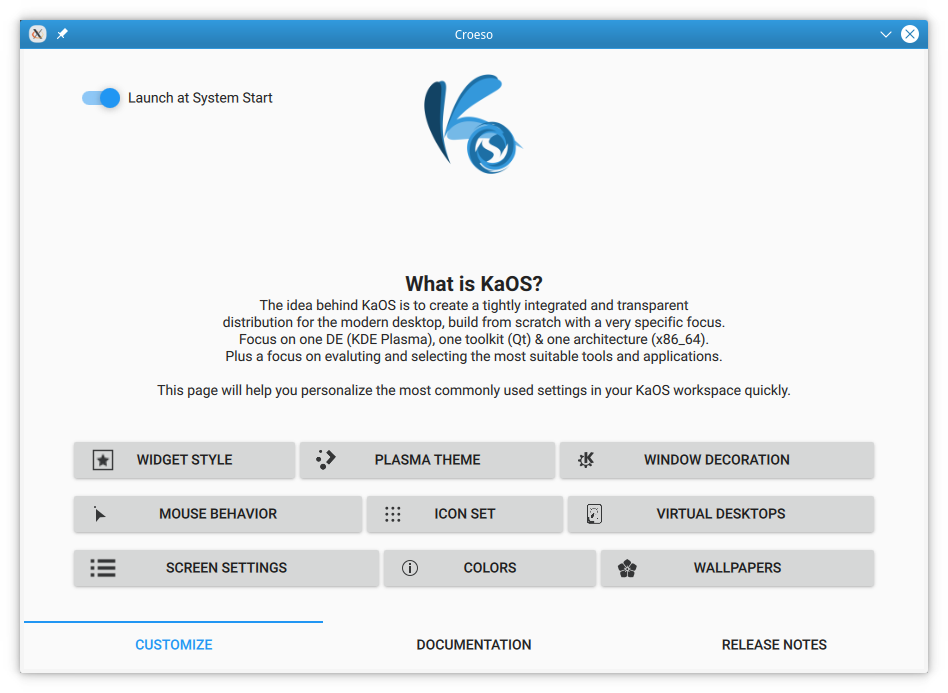
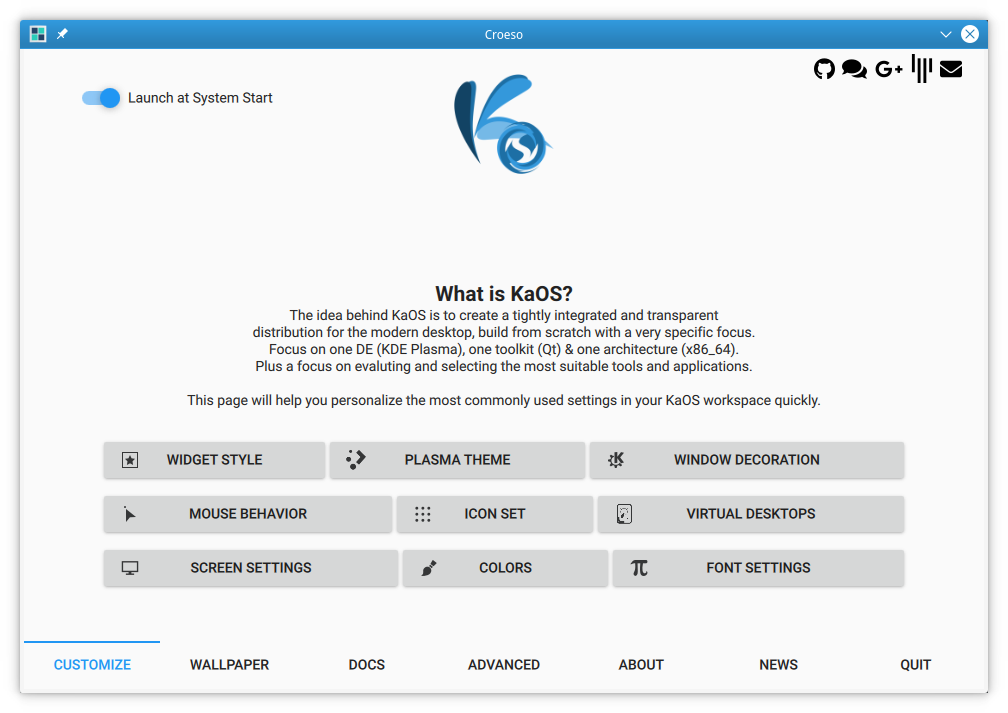
set social media to buttons add tooltips updated screenshots

diff --git a/main.qml b/main.qml
@@ -109,72 +109,123 @@ ApplicationWindow {
         anchors.topMargin: 5
         anchors.top: parent.top
     
-        Image {
+        Button {
                 id: github
+                hoverEnabled: true
+                onClicked: {  Qt.openUrlExternally("https://github.com/KaOSx"); }
+                background: Rectangle {
+                    implicitWidth: 22
+                    implicitHeight: 22
+                    color: "transparent"
+                }
+                
+                ToolTip.delay: 500
+                ToolTip.timeout: 5000
+                ToolTip.visible: hovered
+                ToolTip.text: qsTr("Code & Bug trackers on Github for KaOS")
+            
+            Image {
+                anchors.fill: parent
                 sourceSize.width: 22
                 sourceSize.height: 22
+                fillMode: Image.PreserveAspectFit
                 source: "images/fontawesome/github.svg"
-            
-            MouseArea {
-                anchors.fill: parent
-                cursorShape: Qt.PointingHandCursor;
-                onClicked: {  Qt.openUrlExternally("https://github.com/KaOSx"); }
             }
         }
                 
-        Image {
+        Button {
                 id: irc
-                sourceSize.width: 22
-                sourceSize.height: 22
+                hoverEnabled: true
+                onClicked: {  Qt.openUrlExternally("https://kiwiirc.com/client/irc.freenode.net/#kaosx"); }
+                background: Rectangle {
+                    implicitWidth: 24
+                    implicitHeight: 24
+                    color: "transparent"
+                }
+                
+                ToolTip.delay: 500
+                ToolTip.timeout: 5000
+                ToolTip.visible: hovered
+                ToolTip.text: qsTr("Join the KaOS IRC Channel")
+            
+            Image {
+                anchors.fill: parent
+                sourceSize.width: 24
+                sourceSize.height: 24
                 fillMode: Image.PreserveAspectFit
                 source: "images/fontawesome/comments.svg"
-            
-            MouseArea {
-                anchors.fill: parent
-                cursorShape: Qt.PointingHandCursor;
-                onClicked: {  Qt.openUrlExternally("https://kiwiirc.com/client/irc.freenode.net/#kaosx"); }
             }
         }
         
-        Image {
+        Button {
                 id: gplus
-                sourceSize.width: 22
-                sourceSize.height: 22
+                hoverEnabled: true
+                onClicked: {  Qt.openUrlExternally("https://plus.google.com/u/0/communities/116669111554447085724"); }
+                background: Rectangle {
+                    implicitWidth: 24
+                    implicitHeight: 24
+                    color: "transparent"
+                }
+                
+                ToolTip.delay: 500
+                ToolTip.timeout: 5000
+                ToolTip.visible: hovered
+                ToolTip.text: qsTr("Google Plus KaOS community")
+            
+            Image {
+                anchors.fill: parent
+                sourceSize.width: 24
+                sourceSize.height: 24
                 fillMode: Image.PreserveAspectFit
                 source: "images/fontawesome/google-plus-g.svg"
-            
-            MouseArea {
-                anchors.fill: parent
-                cursorShape: Qt.PointingHandCursor;
-                onClicked: {  Qt.openUrlExternally("https://plus.google.com/u/0/communities/116669111554447085724"); }
             }
         }
         
-        Image {
+        Button {
                 id: gitter
+                hoverEnabled: true
+                onClicked: {  Qt.openUrlExternally("https://gitter.im/KaOSx/KaOS/"); }
+                background: Rectangle {
+                    implicitWidth: 22
+                    implicitHeight: 22
+                    color: "transparent"
+                }
+                
+                ToolTip.delay: 500
+                ToolTip.timeout: 5000
+                ToolTip.visible: hovered
+                ToolTip.text: qsTr("Gitter Chat for KaOS")
+            
+            Image {
+                anchors.fill: parent
                 sourceSize.width: 22
                 sourceSize.height: 22
                 fillMode: Image.PreserveAspectFit
                 source: "images/fontawesome/gitter.svg"
-            
-            MouseArea {
-                anchors.fill: parent
-                cursorShape: Qt.PointingHandCursor;
-                onClicked: {  Qt.openUrlExternally("https://gitter.im/KaOSx/KaOS/"); }
             }
         }
         
-        Image {
+        Button {
                 id: mail
+                hoverEnabled: true
+                onClicked: {  Qt.openUrlExternally("https://groups.google.com/forum/?fromgroups#!forum/kaos-general"); }
+                background: Rectangle {
+                    implicitWidth: 22
+                    implicitHeight: 22
+                    color: "transparent"
+                }
+                
+                ToolTip.delay: 500
+                ToolTip.timeout: 5000
+                ToolTip.visible: hovered
+                ToolTip.text: qsTr("KaOS Mail Group")
+            
+            Image {
+                anchors.fill: parent
                 sourceSize.width: 22
                 sourceSize.height: 22
                 fillMode: Image.PreserveAspectFit
                 source: "images/fontawesome/envelope.svg"
-            
-            MouseArea {
-                anchors.fill: parent
-                cursorShape: Qt.PointingHandCursor;
-                onClicked: {  Qt.openUrlExternally("https://groups.google.com/forum/?fromgroups#!forum/kaos-general"); }
             }
         }
     }
